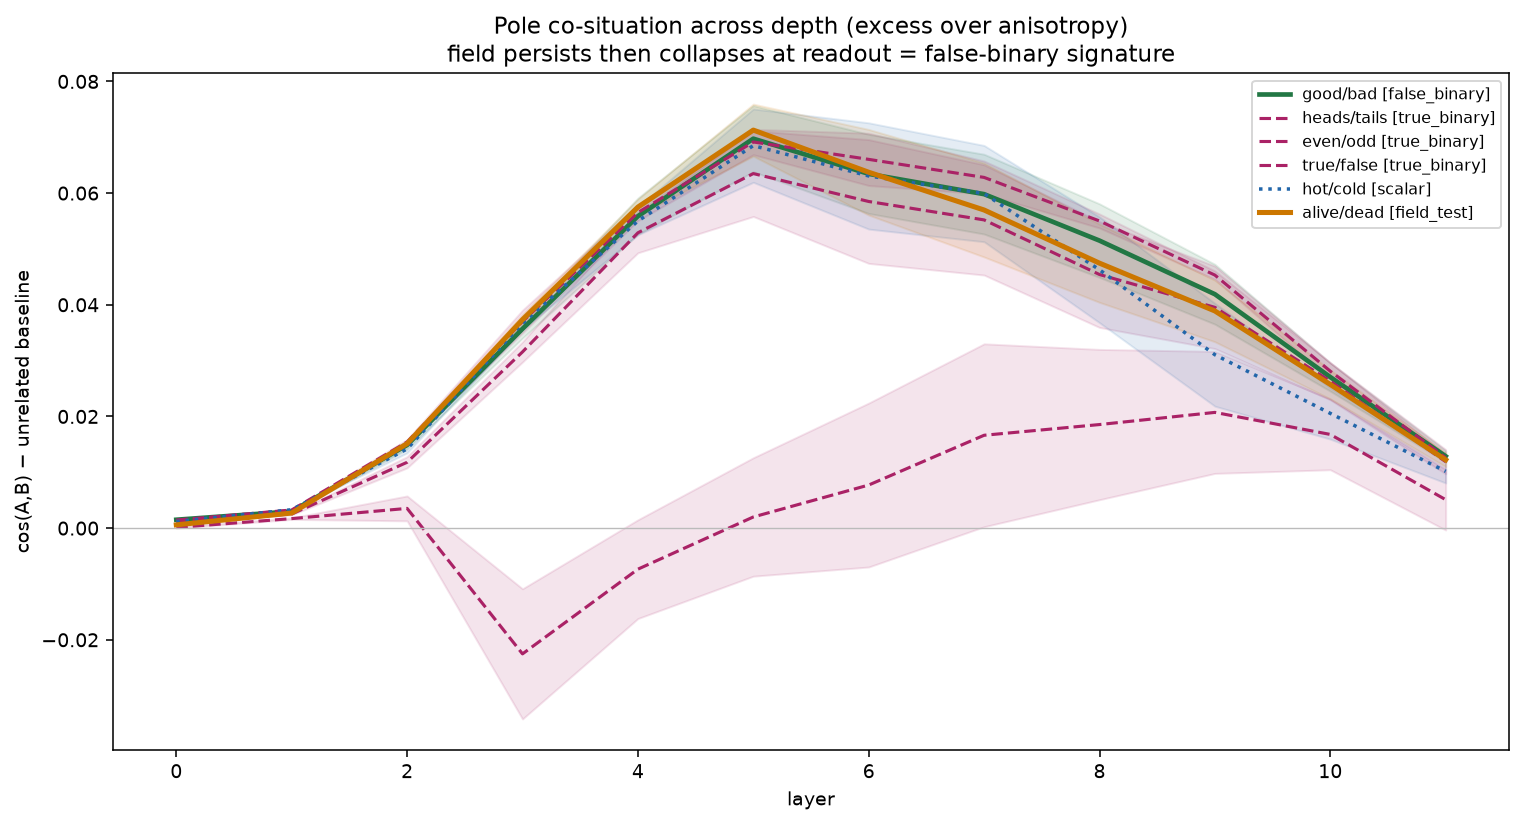
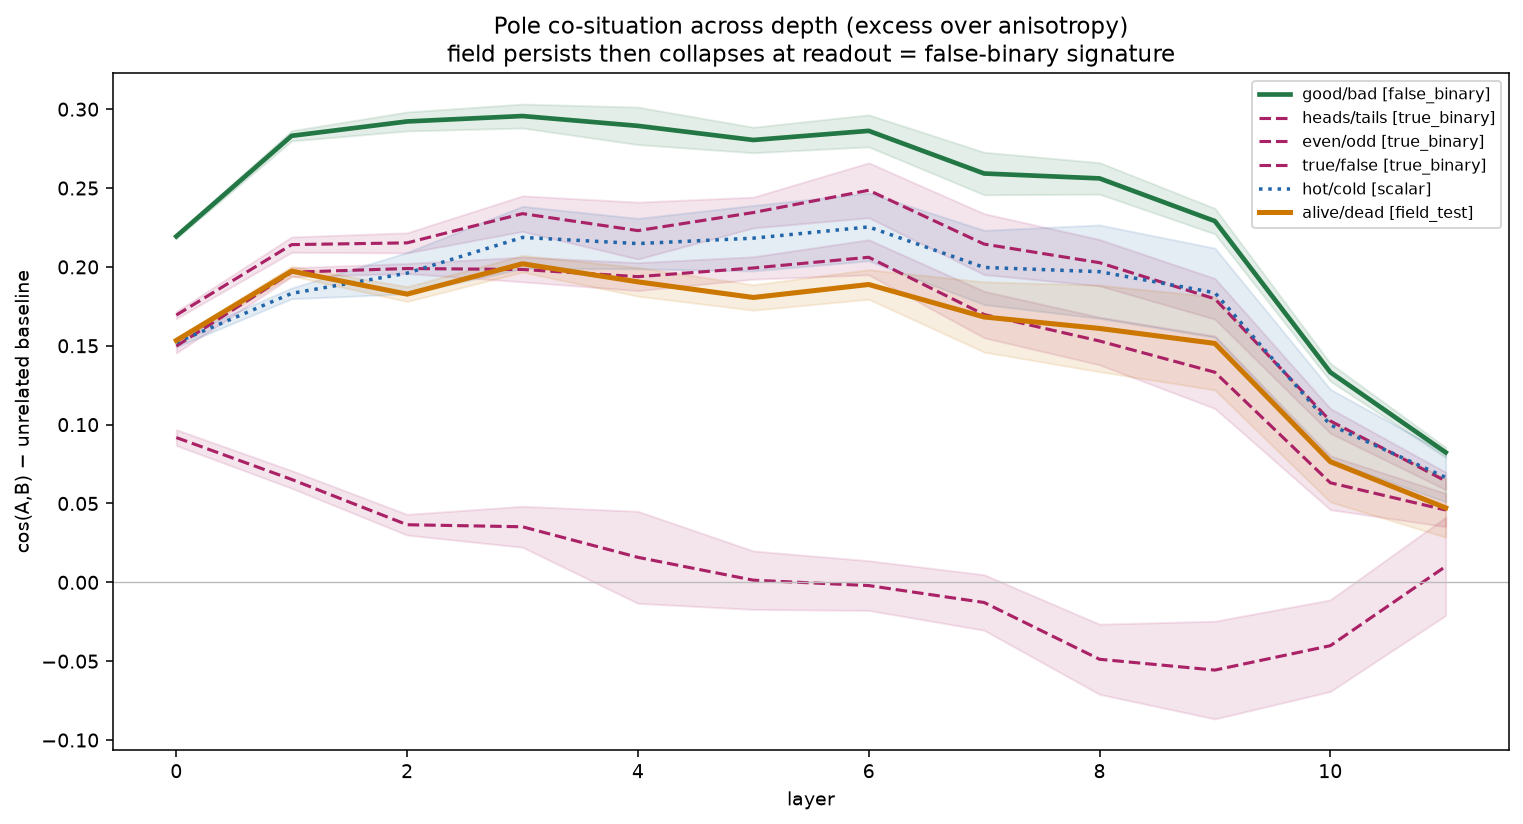
Field probe v2: first-run results, BRANCH B formally (commit 2 of 2)
alive/dead nearer true-binary signature (0.054 vs 0.077), thin margin.
README documents the mechanical weight: field_score saturates for all
classes at the word position; the depth curve (good/bad highest excess +
largest readout drop) is the discriminating observation, corroboration-grade.
v1 Branch A stands withdrawn.

diff --git a/field_probe/README.md b/field_probe/README.md
@@ -22,25 +22,48 @@ Requirements are already installed on this machine (`torch` CPU +
 `transformer_lens` in the winget Python 3.12). On any other machine:
 `pip install transformer_lens matplotlib pandas numpy`.
 
+## Version history
+
+- **v1** read position `[-1]` landed on the sentence-final **period**, not the
+  word (carriers ended in "."). Its Branch A result is **WITHDRAWN**.
+- **v2** (current) removes trailing punctuation and mean-pools `resid_post`
+  over the word's own subword span, with a tokenization integrity check.
+  The frozen pre-registration header is untouched; only the probe moved from
+  the period to the word. v2 was **pushed before any v2 data existed**
+  (commit `fbc3986`), so temporal priority holds for this version.
+
 ## Files
 
 | file | what it is |
 |---|---|
-| `v4final.py` | the LOCKED instrument, verbatim — canonical |
-| `v4final_pairs.csv` / `v4final_field.png` | its outputs (table + depth plot) |
-| `v4final_posdiag.py` | disclosed position diagnostic (reads the word token at pos -2 instead of the sentence-final "."); NOT canonical |
-| `v4final_posdiag_pairs.csv` / `v4final_posdiag_field.png` | diagnostic outputs |
+| `v4final.py` | the LOCKED instrument (v2) — canonical |
+| `v4final_pairs.csv` / `v4final_field.png` | v2 outputs (table + depth plot) |
+| `v4final_posdiag.py` + its CSV/PNG | v1-era position diagnostic; superseded by the v2 fix, kept for the record |
 
-## Result of first run (2026-07-02)
+## Result of v2 run (2026-07-02)
 
-**BRANCH A**: alive/dead patterns with good/bad (dist 0.142) not with the true
-binaries (dist 0.334) — per the frozen pre-registration, geometry tracks the
-real usage field, surviving the hard cultural label. The diagnostic also lands
-Branch A (0.058 vs 0.137).
+**BRANCH B, formally** — alive/dead sits nearer the true-binary signature
+(0.054) than the good/bad signature (0.077). Per the frozen pre-registration:
+the thesis narrows to culturally-graded pairs.
 
-Caveats on record: (1) the locked read position is the sentence-final "."
-token, flagged before running — the field_score class separation exists at that
-position and saturates at the word position; (2) `readout_drop` is ~0.04 for
-every pair — the "decoheres only at readout" half of the claim gets no
-differential support; Branch A is carried by field_score alone; (3) even/odd is
-a suspect control in these carriers ("It was even." reads *even* as an adverb).
+**How much weight the verdict bears (mechanical report, not a revision):**
+
+- The margin is thin (0.023), and the two class signatures the discriminator
+  chooses between are themselves only ~0.10 apart — because **field_score
+  saturates at the word position for every class** (0.73–1.00; heads/tails
+  "middles" edge/side/rim/face seat at 0.917, even/odd at 1.000). The component
+  that separated classes in v1 was separating them at the period, not the word.
+  A positive can be an artifact for the same reason a null can.
+- What *does* separate at the word position is the **pole-cosine excess curve**:
+  good/bad rides highest across all depth (~0.28–0.30 mid-depth) and shows the
+  largest readout drop (0.188 vs 0.13–0.16 for the bundle; even/odd −0.02),
+  while alive/dead tracks the true-binary bundle. That is corroboration-grade
+  observation, not the pre-registered discriminator.
+- Guards: G1 — `dying`/`terminal`/`failing` are single tokens with healthy
+  norms; ` comatose` is 3 subtokens with the lowest norm (72.7), flagged.
+  G2 — ok (dead_var 0.88 vs alive_var 0.80; no polysemy inflation).
+- even/odd remains a suspect control: its excess is low/negative at all depths
+  ("It was even" reads *even* as an adverb, not the parity term).
+
+The verdict is the human reader's; the instrument only reports which branch
+the numbers fell in.
